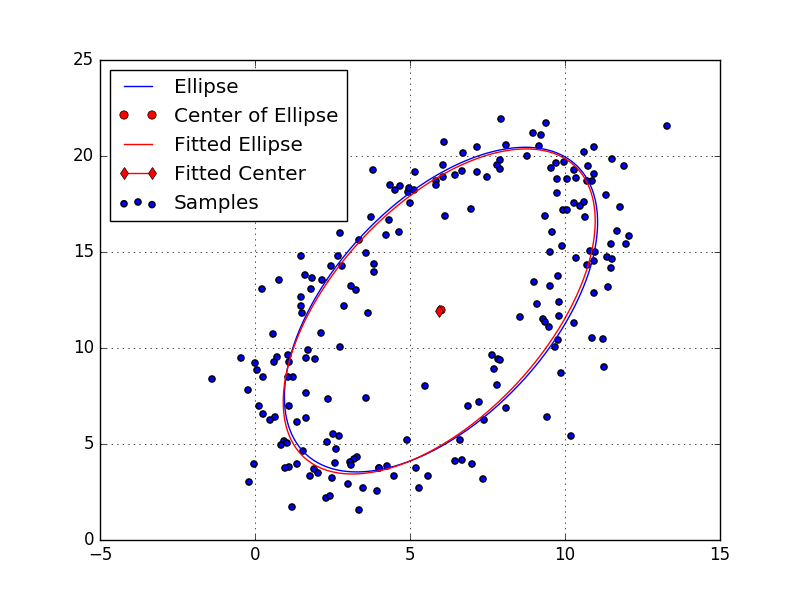
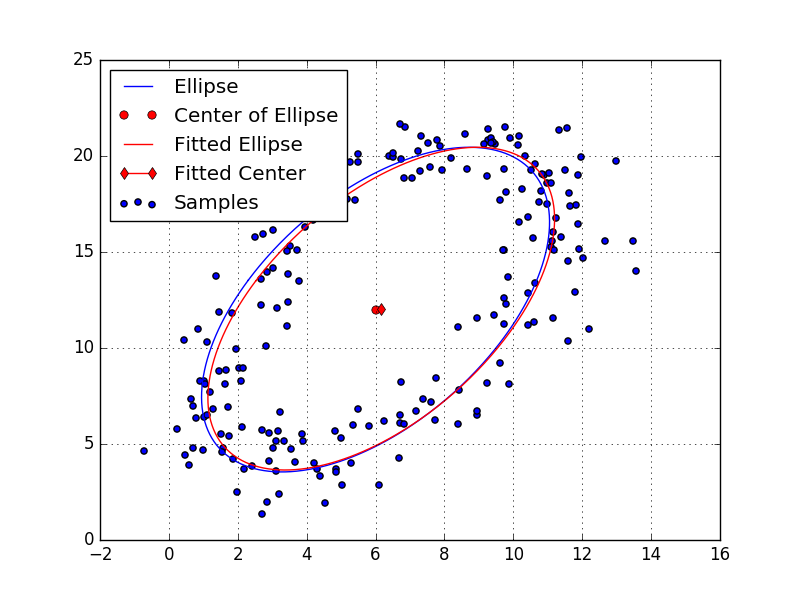
update plots

diff --git a/assets/posts/least-squares/code.py b/assets/posts/least-squares/code.py
@@ -96,6 +96,7 @@ print beta
 # Ellipse example
 (xc, yc) = 6, 12
 (a, b) = 4, 9
+phi = -np.pi/8
 
 def calculate_x(t):
     return xc + a*np.cos(t)*np.cos(phi) - b*np.sin(t)*np.sin(phi)
@@ -134,9 +135,16 @@ beta_y = train_coefficients(adapted_t, y_sample)
 
 xl_c, yl_c = beta_x[0], beta_y[0]
 
-tg_phi = beta_x[2] / beta_y[2]
+a_cos = beta_x[1]
+n_b_sin = beta_x[2]
 
-phi_l = np.arctan(tg_phi)
+a_sin = beta_y[1]
+b_cos = beta_y[2]
 
-a = beta_x[1] / phi_l
-b = beta_x[2] / phi_l
+xl = xl_c + a_cos * np.cos(t) + n_b_sin * np.sin(t)
+yl = yl_c + a_sin * np.cos(t) + b_cos * np.sin(t)
+
+ax.plot(xl, yl, label="Fitted Ellipse", color='r')
+ax.plot(xl_c, yl_c, label="Fitted Center", color='r', marker='d')
+
+plt.legend(loc="upper left")
